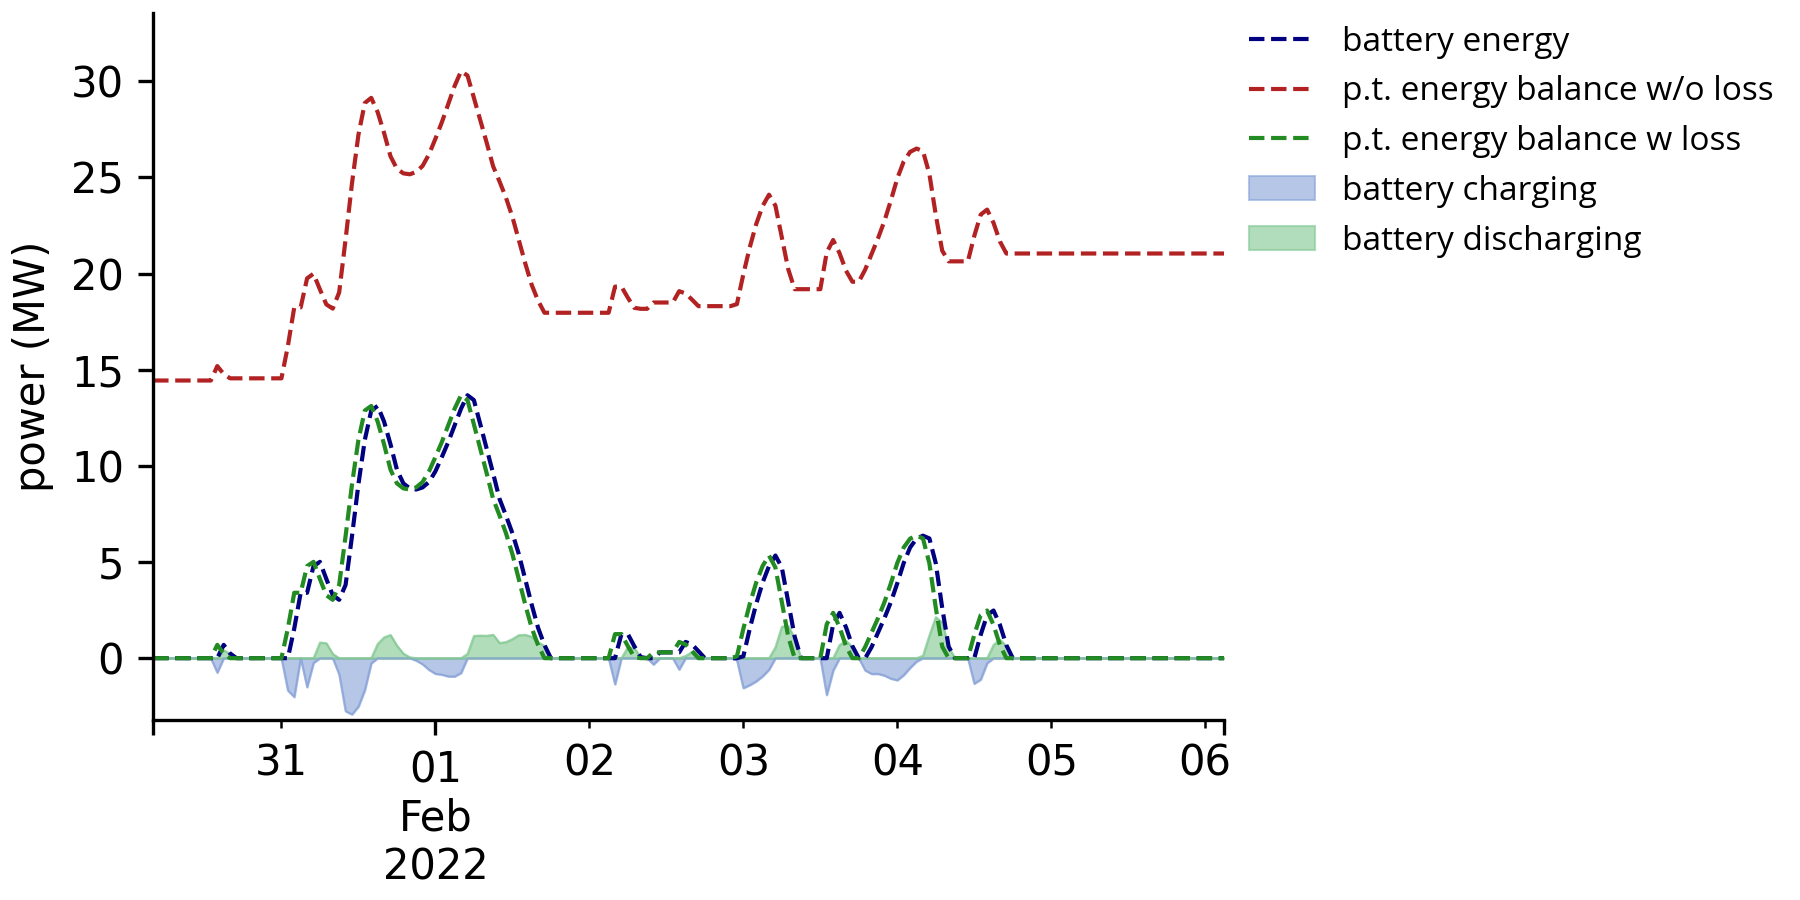
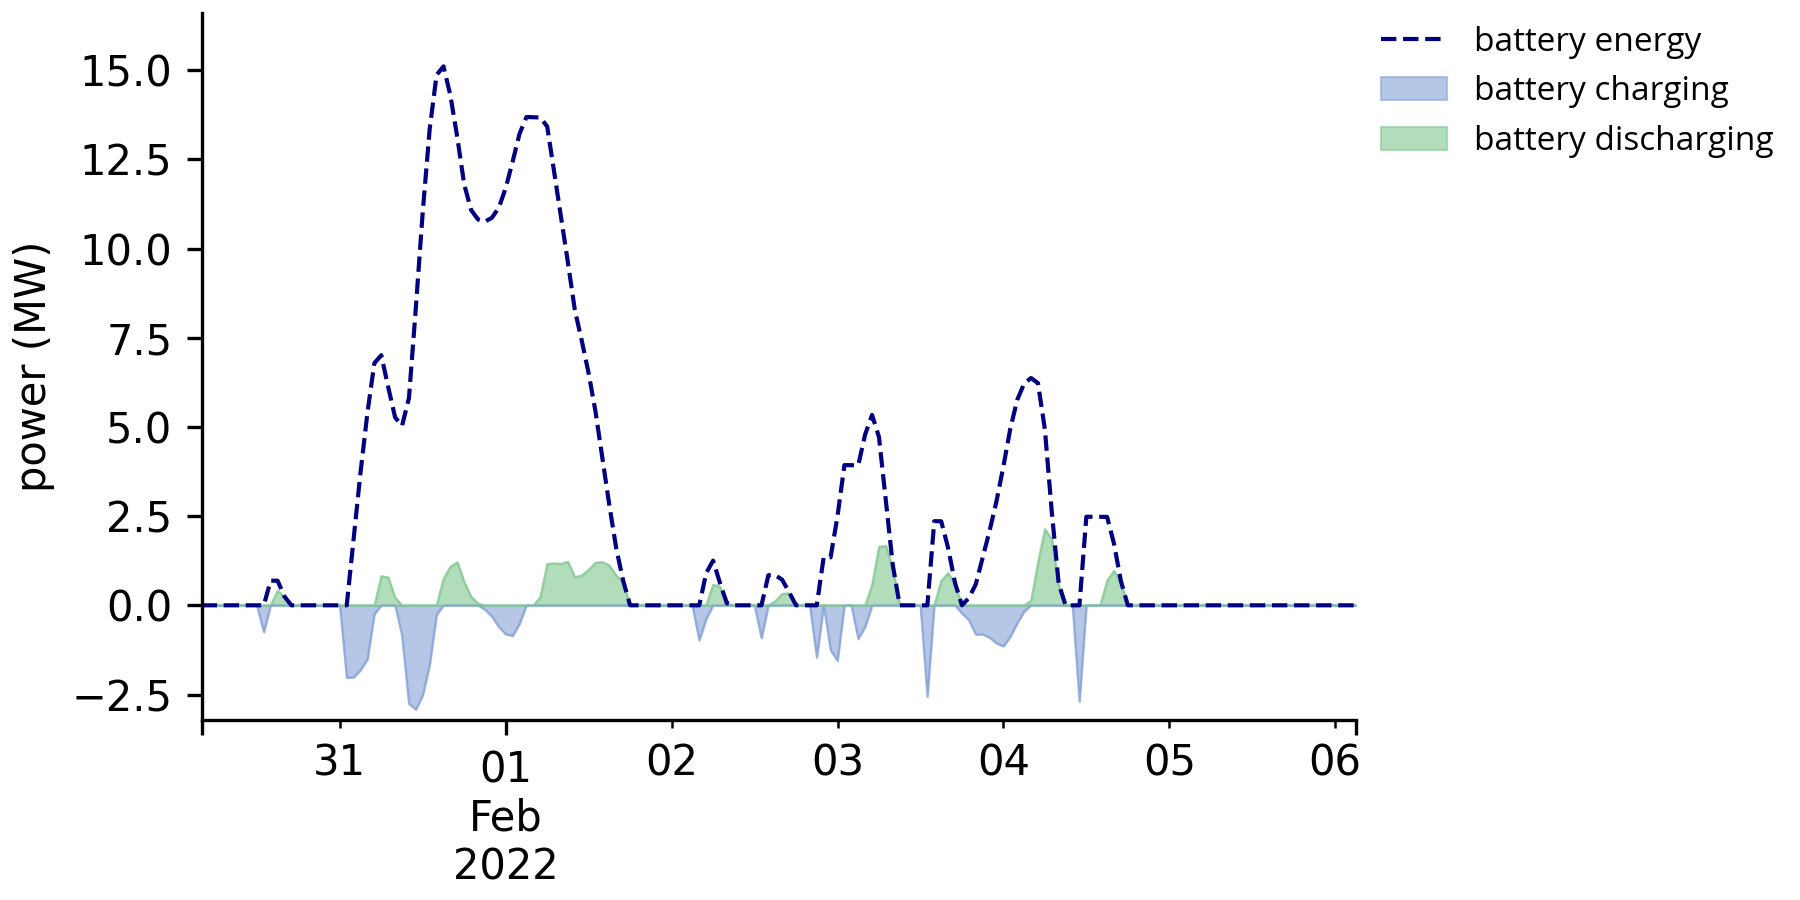
check check dubble check

diff --git a/thesis scripts/solving_battery/profile_plotting.py b/thesis scripts/solving_battery/profile_plotting.py
@@ -32,8 +32,6 @@ LOAD_COLORS = {
 }
 
 
-
-
 def plot_experiment_curves(
     experiment_file: str,
     start: int,
@@ -63,15 +61,14 @@ def plot_experiment_curves(
             loads[ckey] = load
 
         try:
-            if sum(components[ckey].state["energy"])>1:
+            if sum(components[ckey].state["energy"]) > 1:
                 energy = pd.DataFrame(
                     data=components[ckey].state["energy"],
                     index=dates,
-                    columns=["battery energy"]
+                    columns=["battery energy"],
                 )
         except KeyError:
             pass
-        
 
     source_matches = {
         "pv": "PV",
@@ -103,11 +100,10 @@ def plot_experiment_curves(
 
     #%% plotting
 
-
     energy = energy.iloc[start : start + duration * 24, :]
     loads = loads.iloc[start : start + duration * 24, :]
     sources = sources.iloc[start : start + duration * 24, :]
-    
+
     fig, ax = plt.subplots()
     fig, ax = default_matplotlib_style(fig, ax)
     fig.set_size_inches(6, 3)
@@ -136,34 +132,36 @@ def plot_experiment_curves(
         fig, ax = plt.subplots()
         fig, ax = default_matplotlib_style(fig, ax)
         fig.set_size_inches(6, 3)
-        
+
         charging = loads["battery charging"]
         discharging = sources["battery discharging"]
 
-        energy['p.t. energy balance w/o loss'] = (
-            -charging.cumsum()
-            - discharging.cumsum()
+        energy["p.t. energy balance w/o loss"] = (
+            -charging.cumsum() - discharging.cumsum()
         ) + energy["battery energy"].iat[0]
-        energy['p.t. energy balance w loss'] = (
-            energy['p.t. energy balance w/o loss'] + (
-            (charging * (1-0.9219544457292888)).cumsum()
-            - (discharging * (1.0846522890932808-1)).cumsum()
-            - (energy["battery energy"] * (1-0.9995)).cumsum())
+
+        energy["p.t. energy balance w loss"] = energy[
+            "p.t. energy balance w/o loss"
+        ] + (
+            (charging * (1 - 0.9219544457292888)).cumsum()
+            - (discharging * (1.0846522890932808 - 1)).cumsum()
+            - (energy["battery energy"] * (1 - 0.9995)).cumsum()
         )
 
-        charging.plot.area(
-            ax=ax, color=LOAD_COLORS, alpha=OPACITY, linewidth=LINEWIDTH
-        )
+        charging.plot.area(ax=ax, color=LOAD_COLORS, alpha=OPACITY, linewidth=LINEWIDTH)
         discharging.plot.area(
             ax=ax, color=SUPPLY_COLORS, alpha=OPACITY, linewidth=LINEWIDTH
         )
-        energy.plot(ax=ax, color=['navy', 'firebrick', 'forestgreen'], style=['--', '--', '--'], linewidth=2*LINEWIDTH)
-
-        
+        energy.plot(
+            ax=ax,
+            color=["navy", "firebrick", "forestgreen"],
+            style=["--", "--", "--"],
+            linewidth=2 * LINEWIDTH,
+        )
 
         low_limit = 1.1 * charging.min()
-        high_limit = 1.1* max(energy.max())
-        
+        high_limit = 1.1 * max(energy.max())
+
         ax.set_ylim([low_limit, high_limit])
 
         plt.legend(bbox_to_anchor=(1.01, 1), loc=2, borderaxespad=0.0, frameon=False)
@@ -183,29 +181,40 @@ def plot_experiment_curves(
         )
 
 
-def profile_plot_battery(charging: pd.Series, discharging: pd.Series, energy: pd.Series, start: int, duration: int, fig_filename: str):
+def profile_plot_battery(
+    charging: pd.Series,
+    discharging: pd.Series,
+    energy: pd.Series,
+    start: int,
+    duration: int,
+    fig_filename: str,
+    plot_pt_no_loss= False,
+    plot_pt_w_loss= True,
+):
     fig, ax = plt.subplots()
     fig, ax = default_matplotlib_style(fig, ax)
     fig.set_size_inches(6, 3)
-    
+
+    selected_energy_cols = ["battery energy"]
+    if plot_pt_no_loss:
+        selected_energy_cols.append("p.t. energy balance w/o loss")
+    if plot_pt_w_loss:
+        selected_energy_cols.append("p.t. energy balance w loss")
 
     charging.name = "battery charging"
     discharging.name = "battery discharging"
-
-    energy = pd.DataFrame(
-        data=energy.values, 
-        index=energy.index,
-        columns=['battery energy'])
     
-    energy['p.t. energy balance w/o loss'] = (
-        -charging.cumsum()
-        - discharging.cumsum()
+    energy = pd.DataFrame(
+        data=energy.values, index=energy.index, columns=["battery energy"]
+    )
+
+    energy["p.t. energy balance w/o loss"] = (
+        -charging.cumsum() - discharging.cumsum()
     ) + energy["battery energy"].iat[0]
-    energy['p.t. energy balance w loss'] = (
-        energy['p.t. energy balance w/o loss'] + (
-        (charging * (1-0.9219544457292888)).cumsum()
-        - (discharging * (1.0846522890932808-1)).cumsum()
-        - (energy["battery energy"] * (1-0.9995)).cumsum())
+    energy["p.t. energy balance w loss"] = energy["p.t. energy balance w/o loss"] + (
+        (charging * (1 - 0.9219544457292888)).cumsum()
+        - (discharging * (1.0846522890932808 - 1)).cumsum()
+        - (energy["battery energy"] * (1 - 0.9995)).cumsum()
     )
 
     df = energy.copy(deep=True)
@@ -216,21 +225,26 @@ def profile_plot_battery(charging: pd.Series, discharging: pd.Series, energy: pd
     charging = charging.iloc[start : start + duration * 24]
     discharging = discharging.iloc[start : start + duration * 24]
 
-
-
-    charging.plot.area(
-        ax=ax, color=LOAD_COLORS, alpha=OPACITY, linewidth=LINEWIDTH
-    )
+    charging.plot.area(ax=ax, color=LOAD_COLORS, alpha=OPACITY, linewidth=LINEWIDTH)
     discharging.plot.area(
         ax=ax, color=SUPPLY_COLORS, alpha=OPACITY, linewidth=LINEWIDTH
     )
-    energy.plot(ax=ax, color=['navy', 'firebrick', 'forestgreen'], style=['--', '--', '--'], linewidth=2*LINEWIDTH)
+    energy_style = {
+        "battery energy": "navy", 
+        "p.t. energy balance w/o loss": "firebrick", 
+        "p.t. energy balance w loss": "forestgreen",
+        }
 
-    
+    energy[selected_energy_cols].plot(
+        ax=ax,
+        color=energy_style,
+        style="--",
+        linewidth=2 * LINEWIDTH,
+    )
 
     low_limit = 1.1 * charging.min()
-    high_limit = 1.1* max(energy.max())
-    
+    high_limit = 1.1 * max(energy[selected_energy_cols].max())
+
     ax.set_ylim([low_limit, high_limit])
 
     plt.legend(bbox_to_anchor=(1.01, 1), loc=2, borderaxespad=0.0, frameon=False)

diff --git a/LESO/system.py b/LESO/system.py
@@ -249,9 +249,9 @@ class System:
         if noncovex:
             opt.options["NonConvex"] = 2
 
-        opt.options["IterationLimit"] = 200000
+        # opt.options["IterationLimit"] = 200000
         # opt.options['BarHomogeneous'] = 1
-        opt.options["Method"] = 1
+        opt.options["Method"] = 1 # force to use dual simplex
 
         self.model.results = opt.solve(self.model, tee=tee)
 

diff --git a/thesis scripts/solving_battery/evhub_single_run.py b/thesis scripts/solving_battery/evhub_single_run.py
@@ -49,7 +49,10 @@ df2 = profile_plot_battery(
     energy= battery.state['energy'],
     start=700,
     duration=7,
-    fig_filename="evhub_00mw_changed_cost_"
+    fig_filename="evhub_00mw_changed_cost_",
+    plot_pt_no_loss = False,
+    plot_pt_w_loss = False,
+
 )
 # %%
 
